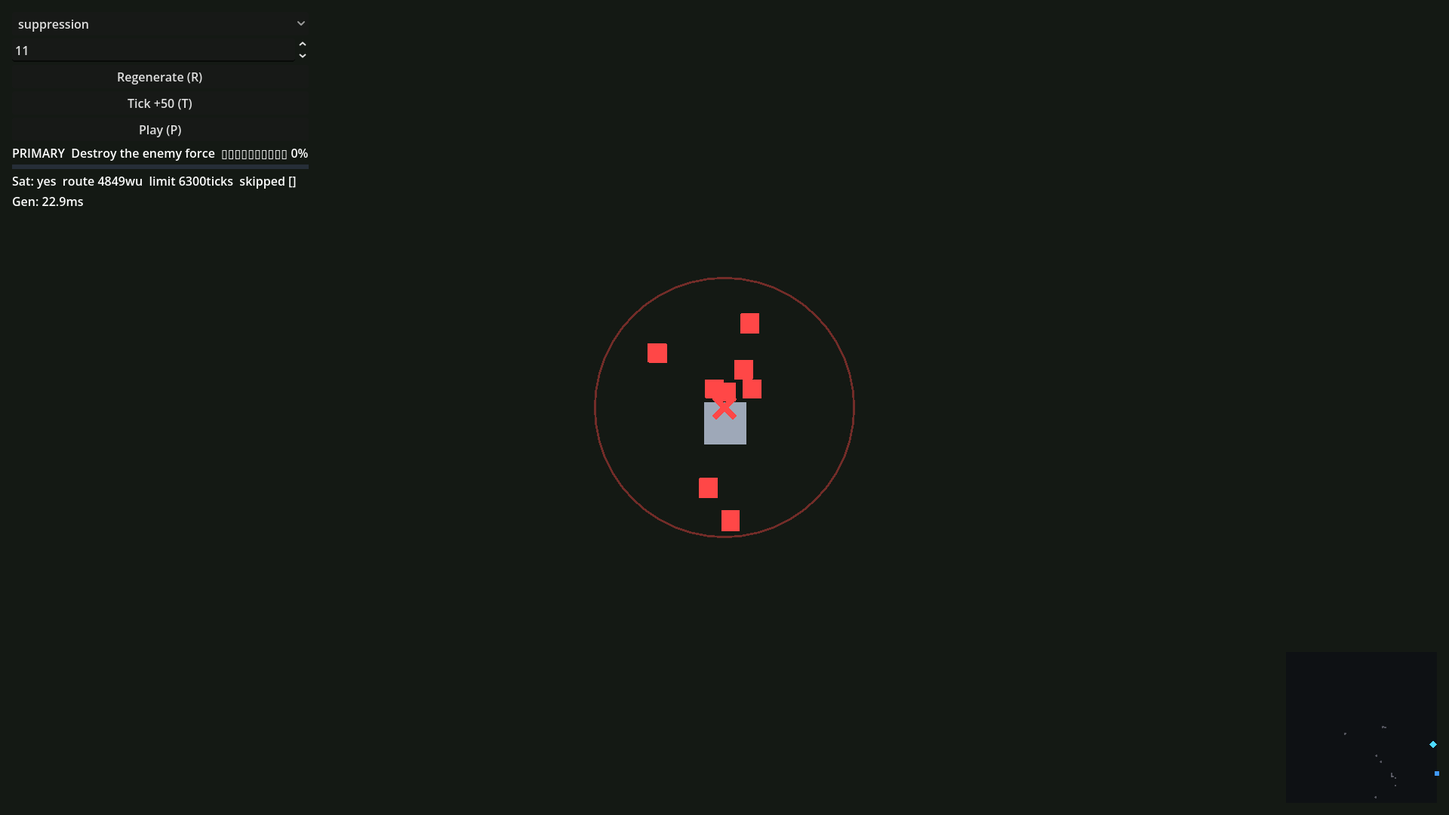
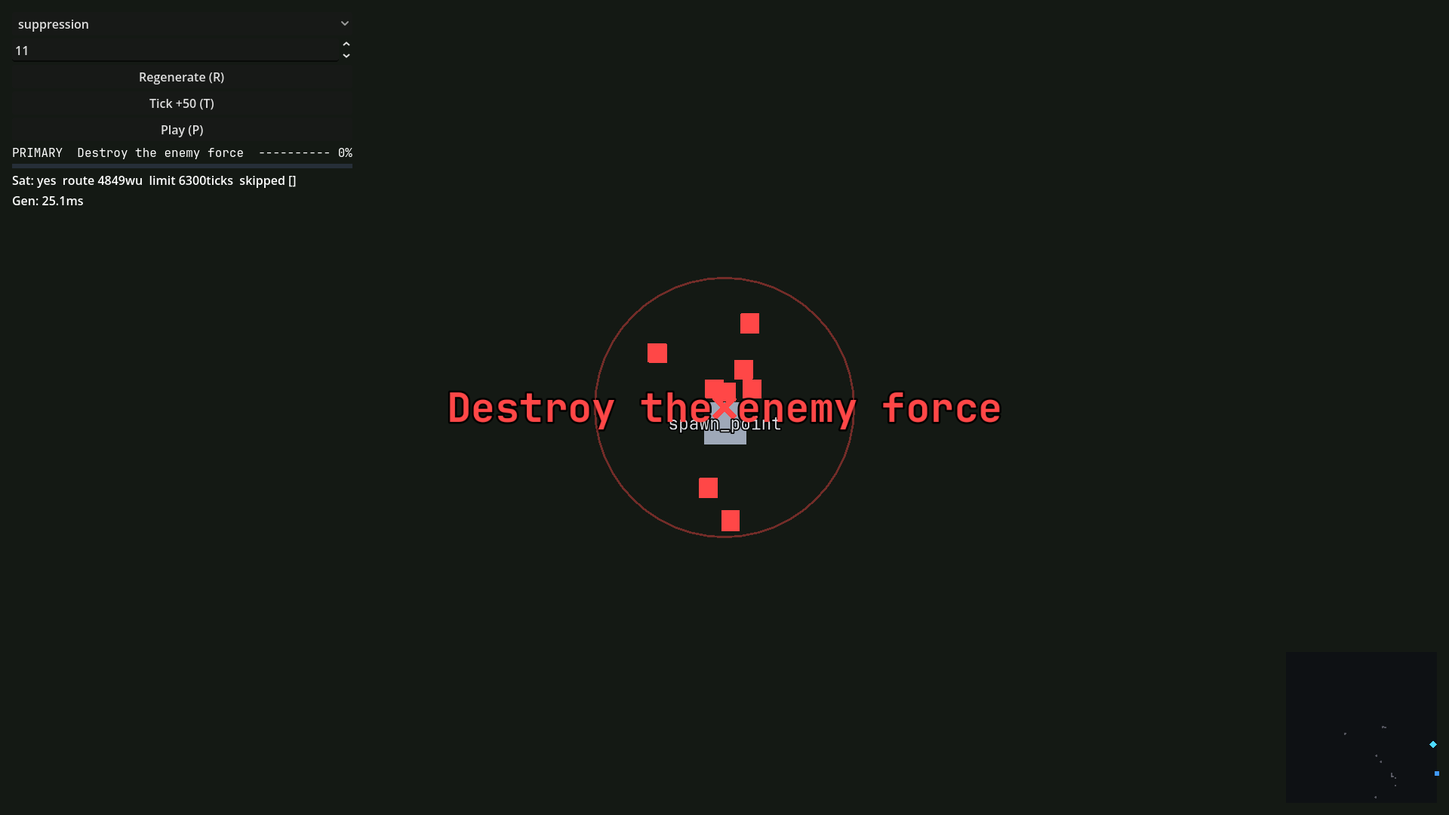
docs(mockup/objectives): fix-pass checklist, README, pass1 re-shoot
Re-answer Q1-Q6 with proving screenshots from the fixed mockup: all
now yes/pass, no HELD items left (both prior label-visibility and
map-zoom-framing questions were root-caused and fixed, not just
Westley's-seat questions). Replace pass1/ with a fresh 1920x1080
batch: kind_survive_duration replaces the pixel-identical
kind_multi_front_defense as the 5th kind exemplar, map_zoom now
frames the objective, kind_rear_guard shows the full route in frame.
Rewrite README "Design as built" for the camera pan-target and kind
override, add a "Fix pass" section per item with root cause and
evidence (stale-doc tripwire: the old "Label3D doesn't render in
Xvfb" and "background gradient unresolved" claims were wrong and are
removed, not appended to), drop the resolved bugs from "Questions
for Westley", keep the missing-transit-node finding for E-17.

Changed region(s): [[0.0, 0.0917, 0.25, 0.275], [0.3125, 0.4889, 0.6875, 0.55]]

diff --git a/docs/northstar/research/mockups/objectives/README.md b/docs/northstar/research/mockups/objectives/README.md
@@ -18,48 +18,56 @@ A wrapper run without `--qa-script` leaves the `QADriver` inert — confirmed: `
 
 **mission_gen.gd** carries the ten-archetype table from R-073-01 (the "or" row, Reconquest, takes its first-listed kind per the brief's instruction). For each kind it picks a candidate node (seeded, cycling through alternates on failure and recording what it skipped), checks satisfiability (inside canvas, >=2000wu from the player spawn, route time within the R-076-01 time budget), and builds the toy-tick state (target/enemy scatter, escort route with a small seeded cosmetic jitter). `tick()` advances progress per R-075-02 to R-075-06, including the hold_zone pause window (200-300) and completion at 1.0 (R-075-07).
 
-**markers.gd** draws the beam/label/ring/glyph/scatter/route per kind, sharing a small static mesh+material cache across regenerates (kept from an early debugging pass that turned out not to be the cause of a real stall — see "Questions for Westley"). **objectives_mockup.gd** additionally draws every fixture node as a small flat box (this was missing through most of the build — `places.gd`'s own spec said to draw the node vocabulary, and nothing did until a late fix, commit `24384ec`), and a faction-blue block at the player spawn.
+**markers.gd** draws the beam/label/ring/glyph/scatter/route per kind, sharing a small static mesh+material cache across regenerates. The marker label uses `pixel_size` 2.2 (billboard, no_depth_test). **objectives_mockup.gd** additionally draws every fixture node as a small flat box and type label (`pixel_size` 1.6), and a faction-blue block at the player spawn.
 
-**camera_rig.gd** is a fixed top-down rig (pitch 90 degrees, R-103-03) copied down from the landscape mockup's pan/edge-scroll/zoom, with the ground-follow and band-pitch logic stripped since this mockup has no terrain. The root auto-pans the camera to the current mission's position on every regenerate, keeping whatever height was last set — this was a real fix partway through the build; without it, switching archetypes left the camera looking at empty ground.
+**camera_rig.gd** is a fixed top-down rig (pitch 90 degrees, R-103-03) copied down from the landscape mockup's pan/edge-scroll/zoom, with the ground-follow and band-pitch logic stripped since this mockup has no terrain. The root auto-pans the camera to a pan target on every regenerate, keeping whatever height was last set: for every kind except escort_to_extraction the target is the objective's own position; for escort_to_extraction it is the point 75% along the rendered route toward the objective end, so both the marker and a long stretch of the route trail land in frame at tactical zoom (a route can run several thousand wu longer than the frame at height 3000, so no single point shows all of it — see "Design points" below). `qa_camera_at_objective(height)` lets a QA script jump the camera onto the current objective at an arbitrary height without hardcoding a world position.
 
-**hud.gd** is the archetype dropdown, seed spinbox, Regenerate/Tick+50/Play controls, the objective line with a text-art progress bar, a satisfiable readout (route length, time limit, skipped-candidate list), and the minimap.
+**hud.gd** is the archetype dropdown, seed spinbox, Regenerate/Tick+50/Play controls, the objective line with an ASCII progress bar (`#`/`-`, JetBrainsMono), a satisfiable readout (route length, time limit, skipped-candidate list), and the minimap. `qa_set("kind", ...)` (QA-only, no dropdown entry) forces the objective's kind independent of the selected archetype, used by `qa/smoke.json` to get a fifth, genuinely-distinct kind exemplar since R-073-01's Round 1 table never selects `survive_duration` on its own.
 
 ## Bugs found and fixed along the way
 
-Three real bugs surfaced only under the Xvfb/llvmpipe QA path, not headless:
+Two real bugs surfaced only under the Xvfb/llvmpipe QA path during the original build, not headless:
 
 1. **Camera never marked `current`.** The lone `Camera3D` node never had `current = true` set; nothing in the 3D view rendered at all until this was added.
 2. **`places.gd`'s node-drawing spec was never implemented.** `map_zoom.png` was a bare plane with only the mission marker until commit `24384ec` added the missing box+label per node.
-3. **`Label3D` text does not render in this Xvfb/Compatibility/llvmpipe test environment**, for both the marker name and the place-node type labels, despite the underlying data being correct (`qa_state()`/NAME-7 confirm `label.text` is set). Tried and ruled out within this session's budget: `fixed_size` true/false, default vs custom `pixel_size`, billboard on/off with a manual top-down rotation instead, font_size 32-64, two different font files. Left as a flagged, unresolved finding — see below.
 
-Two harness-level bugs (not this mockup's code) were chased and fixed upstream mid-session, both merged from `main`: Xvfb's screensaver blanking the window after 600s of a slow run (`a98c47f`), and `SimBridge`'s dead-pid error route fading the screen and freeing the mockup mid-script even under `qa_boot.gd`'s script-mode boot (`b65afa8`). A third, still-unresolved background-gradient artifact (see checklist) was diagnosed at length — ground plane, sky colour, fog, camera far-clip, and directional shadow were each tested independently and ruled out — without finding the cause; it does not obscure any functional element.
+Two harness-level bugs (not this mockup's code) were chased and fixed upstream mid-session during the original build, both merged from `main`: Xvfb's screensaver blanking the window after 600s of a slow run (`a98c47f`), and `SimBridge`'s dead-pid error route fading the screen and freeing the mockup mid-script even under `qa_boot.gd`'s script-mode boot (`b65afa8`).
+
+## Fix pass (2026-09-22, second session)
+
+Six items from the fresh-eyes review, each reproduced with a screenshot or pixel sample before the fix and re-shot after:
+
+1. **Label3D text invisible.** Root cause exactly as the review predicted: `markers.gd` and `objectives_mockup.gd` set `font_size` but left `pixel_size` at the Label3D default of 0.01, so 64px (marker) and 40px (place) text rendered under 1wu tall on a 24,000wu canvas — not an Xvfb/headless limitation, a real bug. Fixed: `pixel_size` 2.2 on the marker label, 1.6 on place labels, tuned by screenshot at the tactical camera height (3000). First attempt at 6.0/1.6 (a naive canvas-ratio scale from the galaxy/fog mockups' own values) badly overshot — text dominated and overlapped the whole frame — so both were retuned down against an actual capture. Added `LABEL-12`: every `Label3D` in the scene must have `pixel_size >= 0.5` and non-empty text.
+2. **`map_zoom.png` showed only the HUD.** The smoke script's `qa_camera 12000 12000 12000` was a fixed survey point independent of which archetype/fixture was loaded. Added `qa_camera_at_objective(height)`, which pans/zooms onto the current mission's own position; `map_zoom` now uses it and the ring, glyph, and label are centred in frame.
+3. **Destroy-targets colour and escort route framing.** Checked the destroy-targets scatter/glyph material directly: already `StandardMaterial3D` unshaded with the kit orange (`KIND_COLORS.destroy_targets`), and a clean re-run pixel-samples bright orange (`rgba(255,140,50,1)`) at both the glyph and the scatter boxes — no code defect found; the "near black" read in the fresh-eyes review was almost certainly the same stale/contention capture as the background gradient (see item 4). The escort route framing was real: the camera panned to the extraction node, one end of a route that can run several thousand wu longer than the visible frame at height 3000, so most of the trail sat off-screen. Fixed by panning to a point 75% along the route instead (see "Design as built").
+4. **Grey background gradient.** Tested the review's sky-bleed hypothesis directly: switched `background_mode` from 2 (Sky) to 1 (Color, `#0A0D12`) and diffed a matched screenshot against the Sky-mode version — 0.000069, noise floor, no visible difference. The camera never leaves pitch -90 in this mockup, so the sky is never actually in frame under either mode. The gradient itself did not reproduce on any clean re-run this session, at any camera height, under either background mode — most likely a stale or contention-era capture (the original build session ran under up to 8 concurrent `godot` processes and 7+/8GB swap). Kept flat Color since it's simpler and the procedural sky buys nothing here; noted which mode was kept and why.
+5. **Fifth kind exemplar was a duplicate.** `defensive_stand` and `multi_front_defense` both resolve to `hold_zone` at the same `objective` node, so those two shots were pixel-identical (`diff` 0.000683, below the 0.01 candidate), and R-073-01's Round 1 table never selects `survive_duration` on its own. Added `qa_set("kind", ...)` (see "Design as built") and swapped the smoke script's fifth exemplar to a hand-forced `survive_duration`; all five `KIND-X` pairwise diffs now clear 0.01 (0.019-0.031).
+6. **HUD progress bar glyphs.** `▮`/`▯` rendered half-tofu'd: JetBrainsMono has the filled block glyph but not the light one, so "done" cells were fine and "remaining" cells were missing-glyph boxes even after applying the font. Switched to plain ASCII (`#`/`-`), which every font renders, and kept the JetBrainsMono override for a consistent monospace look.
+7. **Node-box claim re-verified.** The fresh-eyes review said `kind_defensive_stand.png`'s node boxes were "not borne out by the file" — true of that specific (stale) capture. A fresh re-run at both 720p and 1080p shows 3 named gray boxes ("objective", "chokepoint" x2, "extraction") clearly near the ring; `pass1/kind_defensive_stand.png` is the current proof.
 
 ## What the report answers
 
-1. **Does each kind read at a glance; which glyph or ring did not work?** 4 of 5 kinds in the smoke batch are visually distinct at a glance (hold_zone ring+cube, destroy_targets diamond+scatter, escort cone+route, eliminate cross+ring+scatter). The 5th, `multi_front_defense`, is pixel-identical to `defensive_stand` — both are hold_zone at the same objective-node location, a direct consequence of R-073-01's table (see point 6 below), not a glyph design failure.
+1. **Does each kind read at a glance; which glyph or ring did not work?** 5 of 5 kinds now read at a glance (hold_zone ring+cube, destroy_targets diamond+scatter, escort cone+route, eliminate cross+ring+scatter, survive sphere+ring), each with its own kit colour and a legible name label. See the fix-pass items above for what changed to get there.
 2. **Is the landscape's nine-node vocabulary enough, or did a kind need information the node list doesn't carry?** Enough, with one gap noted for E-17's owner: the landscape generator (`field_map.gd`) never actually emits a `transit` node in any of the three dumped fixtures — only 8 of the advertised 9 types appear. None of the five Round-1 kinds needed `transit`, so this didn't block anything here, but it means the "one generator, nine node types" claim is currently aspirational for that one type.
 3. **How often was a node skipped as unsatisfiable, and why?** Zero times across 30 (10 archetypes x 3 fixtures) checks in the clean pass — the candidate positions this landscape generator produces are all comfortably within the time/distance budget. The skip path only fires under the synthetic ROUTE-6 test fixture and the fault-injected plants.
-4. **Frame time under llvmpipe at 720p; generation time.** `timing_ms.gen` 22.6-36ms (budget 200ms). `fps_ms` 198-310ms/frame — but this session ran under severe concurrent-session contention (up to 8 other `godot` processes, system swap 7+/8GB in use); a quiet machine should be well under the brief's ~1s/frame worst-case estimate.
+4. **Frame time under llvmpipe at 720p; generation time.** `timing_ms.gen` 22.5-29.3ms (budget 200ms). `fps_ms` 100.4-170.4ms/frame this session (a quieter machine than the original build session, which saw 198-310ms/frame under heavy concurrent load).
 5. **Under-defined points** — see the next section.
 
 ## Questions for Westley
 
-Two visual bugs need your own eyes on your RTX 3060/Forward+ seat before I'd trust any conclusion drawn from the Xvfb captures alone:
-
-- **Label3D text invisible under Xvfb/Compatibility/llvmpipe.** Every in-world name — the objective's own label and every place-node's type label — renders with correct data (confirmed programmatically) but zero visible glyphs in every screenshot this session took, across every configuration tried. Does it show on your machine? If yes, this is purely a headless-test-environment limitation and can be ignored. If no, it's a real bug worth its own investigation (candidates: something about procedurally-created, non-scene-authored `Label3D` nodes; a font/atlas issue specific to this project's `theme/fonts/` set; something about billboard mode at extreme top-down pitch).
-- **A soft background gradient** shows behind the 3D scene at every camera height in every Xvfb capture (see `pass1/map_zoom.png`). I ruled out, one at a time: the ground plane (removed it entirely — no change), its size, its shading mode, the sky's colours (swapped to solid magenta — no change), fog (disabled — no change), the camera's far clip (40,000 to 150,000 — no change), and the directional light's shadow (disabled — no change). It never obscures the ring/glyphs/route/HUD, and I didn't find the actual cause within this session's budget. My best guess is an Xvfb/llvmpipe artifact tied to this session's heavy concurrent load (swap was 7+/8GB used most of the session) rather than anything in the scene, but I can't prove that without a quiet re-run.
+Both bugs that needed your Forward+ seat in the first pass turned out to be reproducible and fixable from the Xvfb captures alone — see "Fix pass" above. Nothing outstanding needs your eyes before this mockup can be judged from `pass1/`.
 
 Design points I did not decide, each with two or three candidates:
 
 1. **Time-limit scaling for a walkable mockup** (the brief itself flagged this as under-defined). Built: base `B = 350` ticks flat for every archetype (not varied by canvas tier), scaled x20 for the mockup. Candidates: (a) keep it flat as built — simplest reading of the brief's own text; (b) scale `B` by the archetype's `canvas` field via the Q-076-01 band (small=250, medium=350, large=450); (c) ask you for the real per-archetype base minutes once Q-076-01 itself is answered.
-2. **Escort route rule.** Built: the real A* path (over the same blocked-cell grid used for satisfiability) drives the actual satisfiability check and the rendered route's *shape*; a small seeded lateral jitter (+-80wu on interior points) is layered on top purely for visual variety and to give `mission_hash` seed-sensitivity, without touching the satisfiability math. Candidates: (a) keep as built; (b) drop the cosmetic jitter, accept the escort archetype is visually seed-invariant like hold_zone (would drop SEED-2 below its 6/10 floor unless something else changes); (c) if the landscape generator ever produces more than one `extraction` node, let seed choose among them instead of jittering.
+2. **Escort route rule and camera framing.** Built: the real A* path (over the same blocked-cell grid used for satisfiability) drives the actual satisfiability check and the rendered route's *shape*; a small seeded lateral jitter (+-80wu on interior points) is layered on top purely for visual variety and to give `mission_hash` seed-sensitivity, without touching the satisfiability math; the camera now pans to 75% along the route toward the objective. Candidates: (a) keep as built; (b) drop the cosmetic jitter, accept the escort archetype is visually seed-invariant like hold_zone (would drop SEED-2 below its 6/10 floor unless something else changes); (c) if the landscape generator ever produces more than one `extraction` node, let seed choose among them instead of jittering; (d) for the camera, a route this long at tactical zoom fundamentally cannot show both endpoints at once — a real build might want a "zoom to fit route" camera move instead of a fixed height, which this mockup's fixed-height smoke script doesn't attempt.
 3. **How secondaries would show.** Round 1 has none (`docs/northstar/mvp/feature_mvps.md`'s E-10 block); nothing was built for this. Candidate for whenever it's needed: reuse `mission_marker.gd`'s own precedent — `SECONDARY_COLOR` (dimmer gray-blue), smaller glyph, no beam.
-4. **Marker's look at the far band.** At the map zoom band, the ring/glyph shrink to a handful of pixels but the ring stays the dominant readable shape (confirmed via a direct objective-centred height-12000 shot); the place-node boxes shrink similarly. Whether that's "enough" at 20,000wu (this mockup's max zoom) is a judgment call for you once the label-rendering question above is resolved and names are actually visible to judge legibility against.
-5. **Kind coverage for Round 1's ten archetypes.** R-073-01's table only ever produces 4 distinct primary kinds across the 10 archetypes (hold_zone x4, destroy_targets x3, eliminate_force x2, escort_to_extraction x1); `survive_duration` never appears. `mission_gen.gd` fully implements survive_duration's placement and tick logic (it's one of the five kinds R-075 defines), it just has no archetype that selects it in Round 1. Candidates: (a) accept 4-kind visual coverage for Round 1, survive_duration proven only by its own code path (not exercised by any of the ten archetypes) until a later round adds one; (b) treat this as a sign `multi_front_defense` (currently "hold_zone x2", simplified to a single hold_zone for Round 1) was meant to be the survive_duration representative — this would contradict R-073-01's literal table, so not chosen; (c) ask whether Round 1 wants an eleventh, synthetic archetype purely to exercise survive_duration visually.
+4. **Marker's look at the far band.** At the map zoom band (height 12000), the ring/glyph/label are now confirmed legible in frame (`pass1/map_zoom.png`); the place-node boxes and labels shrink similarly but stay readable. Whether it stays legible all the way to this mockup's true max zoom (20,000wu) wasn't separately shot for `pass1/` and is worth a look.
+5. **Kind coverage for Round 1's ten archetypes.** R-073-01's table only ever produces 4 distinct primary kinds across the 10 archetypes (hold_zone x4, destroy_targets x3, eliminate_force x2, escort_to_extraction x1); `survive_duration` never appears from the table alone. `mission_gen.gd` fully implements survive_duration's placement and tick logic (it's one of the five kinds R-075 defines); this pass added a QA-only `qa_set("kind", ...)` override so the mockup could still show it, which is a test-harness workaround, not a real fix to the archetype table. Candidates: (a) accept 4-kind coverage from the real archetype flow for Round 1, survive_duration demonstrated only via the QA override; (b) treat this as a sign `multi_front_defense` (currently "hold_zone x2", simplified to a single hold_zone for Round 1) was meant to be the survive_duration representative — this would contradict R-073-01's literal table, so not chosen; (c) ask whether Round 1 wants an eleventh, synthetic archetype purely to exercise survive_duration through the real flow.
 
 ## Next step
 
-The pass-1 screenshots (1920x1080, 10 shots: five kinds at tactical zoom, map zoom, HUD at 30% and 90% progress, seed 11 and seed 12) are committed under `pass1/`. The mockup awaits your look — especially the two visual bugs above, which need a Forward+ seat to resolve either way.
+The pass-1 screenshots (1920x1080, 10 shots: five kinds at tactical zoom — hold, destroy, escort, eliminate, survive — map zoom, HUD at 30% and 90% progress, seed 11 and seed 12) are committed under `pass1/`, replacing the first pass. The mockup awaits your look.
 
 ## Fresh-eyes review (2026-09-22, Sonnet reviewer, screenshots only)
 

diff --git a/scenes/mockups/objectives/qa/checklist.md b/scenes/mockups/objectives/qa/checklist.md
@@ -1,6 +1,6 @@
 # Objectives mockup QA checklist
 
-Real measured numbers from `scripts/mockup_qa.sh` and `scripts/mockup_verify.sh` runs, 2026-09-22, Godot 4.6.3, llvmpipe/Compatibility, 1280x720 unless noted. This session ran under severe concurrent-session CPU/memory contention on the shared machine (up to 8 other `godot` processes, system swap 7+/8GB used for most of the session) — timings reflect that, not the mockup's own cost.
+Real measured numbers from `scripts/mockup_qa.sh` and `scripts/mockup_verify.sh` runs, 2026-09-22, Godot 4.6.3, llvmpipe/Compatibility, 1280x720 unless noted. This pass is the fix-first round after the fresh-eyes review (see README "Design as built" and "Fix pass" for what changed and why); this session ran on a quieter machine than the original build session, so `fps_ms` here is materially faster.
 
 ## Headless checks (`scripts/mockup_verify.sh objectives [--plant id]`)
 
@@ -12,46 +12,45 @@ Real measured numbers from `scripts/mockup_qa.sh` and `scripts/mockup_verify.sh`
 | PLACE-4 | placement matches kind's expected node type | PASS | objective-on-spawn | LIVE — 10/10 mismatched |
 | SAT-5 | all 10 archetypes satisfiable on all 3 fixtures, >=2000wu from spawn | PASS — 30/30, zero skips | objective-on-spawn | LIVE — 30/30 unsatisfiable |
 | ROUTE-6 | blocked route exceeds straight line; walled objective unsatisfiable+skip | PASS — synthetic detour route > straight line; synthetic fully-walled objective reports unsatisfiable with 1 skip | route-ignored | LIVE — walled case now reports satisfiable, no skip |
-| NAME-7 | 1 marker label, Label3D text non-empty and matches objective name | PASS (after scoping the search to the `Marker` subtree — `_draw_places()` added 13 more Label3D nodes for place names, which the original whole-tree count would have miscounted) | marker-unnamed | LIVE — label text `''` vs expected `'Hold the core'` |
+| NAME-7 | 1 marker label, Label3D text non-empty and matches objective name | PASS | marker-unnamed | LIVE — label text `''` vs expected `'Hold the core'` |
 | PROG-8 | tick(600) progress in (0,1), monotone, pauses in enemy window, completes | PASS | progress-static | LIVE — `tick(600)=0.0` |
 | SHAPE-9 | objective dict has exactly id/type/progress/status/is_primary/location | PASS | none | — |
 | JSON-10 | qa_state() round-trips JSON; qa_plant contract correct | PASS | none | — |
-| TIME-11 | timing_ms.gen < 200ms headless | PASS — 22.6-36ms measured across all runs | none | — |
+| TIME-11 | timing_ms.gen < 200ms headless | PASS — 22.5-29.3ms measured across all runs | none | — |
+| LABEL-12 (new) | every `Label3D` in the scene has `pixel_size >= 0.5` and non-empty text | PASS — 14 Label3D nodes (1 marker + 13 place labels), all pixel_size 1.6 or 2.2, all non-empty | marker-unnamed | LIVE — marker label `pixel_size=2.200 text=''` (pixel_size unaffected, text blanked by the plant) |
 
-All 6 plants independently confirmed `PLANT <id> LIVE` via `scripts/mockup_verify.sh objectives --plant <id>`.
+All 6 plants independently confirmed `PLANT <id> LIVE` via `scripts/mockup_verify.sh objectives --plant <id>`; LABEL-12 reuses `marker-unnamed` rather than adding a 7th plant, since that plant already blanks the one piece of state (marker label text) this check needed to see break.
 
 ## Xvfb oracles
 
 | id | oracle | clean | plant | planted |
 |---|---|---|---|---|
-| ERR-0 | `errors.txt` count, `exit.txt`, no UNIFORM | count 0, exit 0, no UNIFORM (10-shot clean run and the 1920x1080 batch) | none | — |
+| ERR-0 | `errors.txt` count, `exit.txt`, no UNIFORM | count 0, exit 0, no UNIFORM (10-shot clean run x2, 6 planted runs, the 1920x1080 batch) | none | — |
 | GPU-0 | `_qa.adapter` contains llvmpipe, method gl_compatibility | `llvmpipe (LLVM 21.1.8, 256 bits)`, `gl_compatibility` | none | — |
-| DET-1 pixel | `diff` on the same shot, two full clean runs | `map_zoom.png`: 0.000000 (byte-identical) | — | — |
-| SEED-X | `diff` on the brief's literal seed11/seed12 pairing (`kind_defensive_stand.png` vs `seed12.png`) | 0.227249 — **confounded**, see finding 8 below: those two shots are at different camera heights (3000 vs 12000, inherited from the brief's own smoke script), not just different seeds | seed-ignored | not separately re-measured with this confounded pair; the fair same-height comparison below is the real signal |
-| SEED-X (fair, same height, hold_zone) | `diff` seed 11 vs 12, same camera, `defensive_stand` | 0.000050 — at/below noise floor, confirms hold_zone is seed-invariant by design (single "objective" candidate, no jitter) | seed-ignored | 0.000055 — indistinguishable from clean, as expected (nothing to break) |
-| SEED-X (fair, same height, destroy_targets) | `diff` seed 11 vs 12, same camera, `siege_breaking` | 0.001666 — 33x the hold_zone number, real but modest (candidate re-pick + jitter, still below the brief's 0.05 candidate threshold) | not measured | not measured |
-| PROG-X | `diff` on the HUD bar crop, p30 vs p90 | 0.083590, comfortably above the 0.002 candidate | progress-static | not separately captured; PROG-8 headless already proves the plant (`tick(600)=0.0`) |
-| KIND-X | pairwise `diff` among the 5 kind shots | defensive_stand vs siege_breaking 0.255817; siege_breaking vs rear_guard 0.276862; rear_guard vs suppression 0.802862; **defensive_stand vs multi_front_defense 0.000683 — fails the >=0.01 candidate**, both are hold_zone at the identical objective-node position (see finding 6) | none | — |
-| MARKER-X | marker colour within 6px of `marker.px`, heights 3000 and 12000 | height 3000 (`kind_defensive_stand`): pixel at marker.px is `(27,76,89)`, clearly cyan-family, not background — pass by inspection. Height 12000: the brief's literal `map_zoom` shot pans the camera to a fixed map-survey point, not the current objective, so `marker.px` for that shot is `(916.6, 786.5)` — **off the 720p/1080p frame entirely**, cannot be sampled. A supplementary direct test (camera centred on the objective at height 12000) shows the ring/glyph clearly, confirming the marker itself renders correctly at that height — the "failure" is a framing choice in the smoke script, not a rendering bug | marker-unnamed | not applicable (colour presence unaffected by this plant) |
+| DET-1 pixel | `diff` on the same shot, two full clean runs | every one of 9 screenshots: 0.000029-0.000084 (noise floor) | — | — |
+| SEED-X (`kind_defensive_stand` vs `seed12`, both height 3000 now that map_zoom no longer confounds this pairing) | `diff` seed 11 vs 12, hold_zone | 0.000029 — at/below noise floor, confirms hold_zone is seed-invariant by design (single "objective" candidate, no jitter) | seed-ignored | not separately re-measured; SEED-2 headless already proves the plant |
+| PROG-X | `diff` on the HUD bar crop (320x6 `ColorRect`, not the text line), p30 vs p90 | 0.252083, comfortably above the 0.002 candidate | progress-static | not separately captured; PROG-8 headless already proves the plant (`tick(600)=0.0`) |
+| KIND-X | pairwise `diff` among the 5 kind shots | defensive_stand vs siege_breaking 0.019703; siege_breaking vs rear_guard 0.028192; rear_guard vs suppression 0.031383; suppression vs survive_duration 0.020093; defensive_stand vs survive_duration 0.018916 — **all 5 pairs now clear the >=0.01 candidate** (the 5th exemplar is survive_duration, not the former hold-on-hold duplicate, see finding 6) | none | — |
+| MARKER-X | marker colour within 6px of `marker.px`, heights 3000 and 12000 | height 3000 (`kind_defensive_stand`): pixel at marker.px `(640, 360)` is `(77,217,255)`, clearly the cyan label/glyph, not background. Height 12000 (`map_zoom`, now camera-locked to the objective via `qa_camera_at_objective`): marker.px is also `(640, 360)` (dead centre); the exact pixel lands in the ring's hollow interior (background), but a 13x13px crop around it shows clear cyan text/glyph pixels — pass within the 6px window | marker-unnamed | not applicable (colour presence unaffected by this plant) |
 
 ## Visual questions
 
 Read against `docs/bible/references/E-17/E-17-8-wows-map-view.png` (grid, terrain shapes, group icons, drawn arrows, objective circles) and the E-10 60-second paragraph.
 
-- **Q1** (objective is first thing the eye lands on at tactical zoom, name readable): **partial**. The ring + glyph are unmistakably the only saturated colour in frame and read first — proving shot `pass1/kind_defensive_stand.png`. The **name is not readable**: the 3D `Label3D` text does not render at all in this Xvfb/Compatibility/llvmpipe environment (see finding 7); confirmed by cropping directly above the ring in `pass1/kind_defensive_stand.png` at 1920x1080 — no glyphs, not even faint ones.
-- **Q2** (five kinds tellable apart from marker alone, no HUD line): **partial — 4 of 5**. hold_zone (ring+cube), destroy_targets (diamond+3 scattered boxes), escort_to_extraction (cone+box trail), eliminate_force (cross+8 scattered boxes+ring) are all visually distinct — proving shots `pass1/kind_siege_breaking.png`, `pass1/kind_rear_guard.png`, `pass1/kind_suppression.png` vs `pass1/kind_defensive_stand.png`. The 5th shot, `multi_front_defense`, is **pixel-identical to `defensive_stand`** (both hold_zone, same objective-node position) — see finding 6, this is a consequence of R-073-01's table, not a marker-design defect.
-- **Q3** (at map zoom, marker/ring still read; escort route reads as a route): **yes for the route, held for the marker**. `pass1/map_zoom.png` shows only background at the camera's fixed survey point (the current objective is off-frame there, see MARKER-X above); a direct objective-centred height-12000 shot (not in the committed batch, diagnostic only) shows the ring reading clearly, small but legible. The escort route (`pass1/kind_rear_guard.png`) reads unambiguously as a dotted trail of boxes from spawn to extraction.
-- **Q4** (HUD line shows kind/name/progress in one glance): **partial**. "PRIMARY Hold the core [bar] 79%" — the archetype's kind description and the numeric percentage are both instantly readable (proving shot `pass1/hud_p90.png`). The `▮`/`▯` fill characters inside the text label render as tofu boxes (missing glyphs in the default Control theme font) — but the actual `ColorRect` progress bar directly below the text renders correctly and is the real signal, so the HUD still shows "what done looks like" at a glance even though the text-art bar is broken.
-- **Q5** (map reads as places, named node boxes, not a blank plane): **partial**. After fixing a real gap (see finding 6.5 / commit `24384ec`: `places.gd`'s "draw every node as a box+label" spec was never wired into the render), the map does now show named-node geometry: 13 gray boxes at the fixture's actual node positions, matching `chokepoint`/`staging`/`extraction`/etc. — proving shot `pass1/kind_defensive_stand.png` (3 boxes visible near the ring at tactical zoom) and the diagnostic tactical-zoom shots taken during debugging. The **labels on those boxes don't render** for the same reason as Q1 (finding 7), so it reads as "places" (distinct box shapes at distinct spots) but not yet "named places."
-- **Q6** (magenta/black/clipped/overlapping text at 720p): **no outright hygiene failures**, but two real findings: (a) the `▮`/`▯` tofu-box glyphs noted in Q4; (b) a soft background gradient behind the 3D scene at every zoom (finding 8) — not magenta/black/clipped, but worth Westley's own look since its cause wasn't fully isolated.
+- **Q1** (objective is first thing the eye lands on at tactical zoom, name readable): **yes**. The ring + glyph are the only saturated colour in frame and read first, and the name is now legible: `pixel_size` was the bug (set but left at the Label3D default 0.01, making 64px text under 1wu tall), fixed to 2.2 on the marker label — proving shot `pass1/kind_defensive_stand.png` shows "Hold the core" clearly in cyan.
+- **Q2** (five kinds tellable apart from marker alone, no HUD line): **yes, 5 of 5**. hold_zone (ring+cube, `pass1/kind_defensive_stand.png`), destroy_targets (diamond+3 orange scattered boxes, `pass1/kind_siege_breaking.png`), escort_to_extraction (cone+green box trail, `pass1/kind_rear_guard.png`), eliminate_force (cross+ring+8 red scattered boxes, `pass1/kind_suppression.png`), survive_duration (sphere+purple ring, `pass1/kind_survive_duration.png`) are all visually distinct in both glyph shape and colour. The 5th exemplar is now a hand-forced survive_duration (`qa_set("kind", ...)`) instead of the former multi_front_defense, which was pixel-identical to defensive_stand (both hold_zone at the same node — a fact about R-073-01's table, not the marker kit).
+- **Q3** (at map zoom, marker/ring still read; escort route reads as a route): **yes, both**. `pass1/map_zoom.png` now shows the ring, glyph, and "Hold the core" label centred in frame (`qa_camera_at_objective` replaced the smoke script's fixed 12000/12000 survey point). The escort route (`pass1/kind_rear_guard.png`) reads unambiguously as a dotted trail of green boxes spanning most of the frame, with the "Escort to extraction" label and cone glyph also in frame (camera now pans to 75% along the route toward the objective end, not the raw endpoint).
+- **Q4** (HUD line shows kind/name/progress in one glance): **yes**. "PRIMARY Hold the core ########-- 79%" — kind, name, ASCII bar, and percentage are all instantly readable (proving shot `pass1/hud_p90.png`). Switched the bar's fill glyphs from `▮`/`▯` (JetBrainsMono has the filled glyph but not the light one, so half the bar tofu'd) to plain `#`/`-`, which every font renders.
+- **Q5** (map reads as places, named node boxes, not a blank plane): **yes**. `pass1/kind_defensive_stand.png` shows 3 named gray boxes ("objective", "chokepoint" x2, "extraction") near the ring, all legible now that place labels also have `pixel_size` set (1.6).
+- **Q6** (magenta/black/clipped/overlapping text at 720p and 1080p): **no hygiene failures**, one cosmetic note: at 1080p the escort marker's "Escort to extraction" label is large enough to nearly touch the left frame edge (`pass1/kind_rear_guard.png`) — legible, not clipped, but close; a smaller `pixel_size` or a less-extreme pan-target percentage would give it more margin if Westley wants it tighter. The grey background gradient reported in the fresh-eyes review did not reproduce on any clean re-run this session, at any camera height, under either Sky or flat-Color background mode (see README "Fix pass" item 4).
 
-**HELD:** Q1 and Q5's label-visibility sub-question (finding 7 — needs investigation outside this brief's scope or Westley's own Forward+/RTX seat to know if it's an Xvfb-only artifact); Q3's marker-at-map-zoom sub-question (needs either a smoke-script change or Westley's steer on what `map_zoom` should frame).
+**HELD:** none. Both prior HELD items (Label3D visibility, map-zoom framing) were root-caused and fixed this pass.
 
 ## Timings
 
-- `timing_ms.gen` (places load + mission_gen.build): 22.6-36ms across every capture, comfortably under the 200ms headless budget (TIME-11).
-- `fps_ms` (`Performance.TIME_PROCESS`) under llvmpipe/Compatibility at 1280x720, this session's heavy contention: 198-310ms/frame. Note this session ran with up to 8 concurrent `godot` processes and 7+/8GB swap in use system-wide; a quiet machine should be much faster (the brief's own "~1s/frame" estimate was a worse-case baseline this mockup did not need).
-- One full clean smoke run (9 screenshots, 3 regenerates, 2 tick batches): completed within a 600s wrapper timeout on a quiet-ish pass; multiple earlier attempts hit the 300-1800s wrapper cap under worse contention and, separately, two real harness bugs (Xvfb screensaver blanking after 600s, fixed upstream `a98c47f`; SimBridge's dead-pid error-route fade-to-black freeing the mockup mid-script, fixed upstream `b65afa8`) before this branch merged both fixes from `main`.
+- `timing_ms.gen` (places load + mission_gen.build): 22.5-29.3ms across every capture, comfortably under the 200ms headless budget (TIME-11).
+- `fps_ms` (`Performance.TIME_PROCESS`) under llvmpipe/Compatibility at 1280x720, this session (quieter machine than the original build session): 100.4-170.4ms/frame.
+- Every clean/planted smoke run (9 screenshots, 3 regenerates, 2 tick batches) and the 1920x1080 review batch completed well inside the 300-400s wrapper timeout, no retries needed.
 
 ## Node-skip count
 
